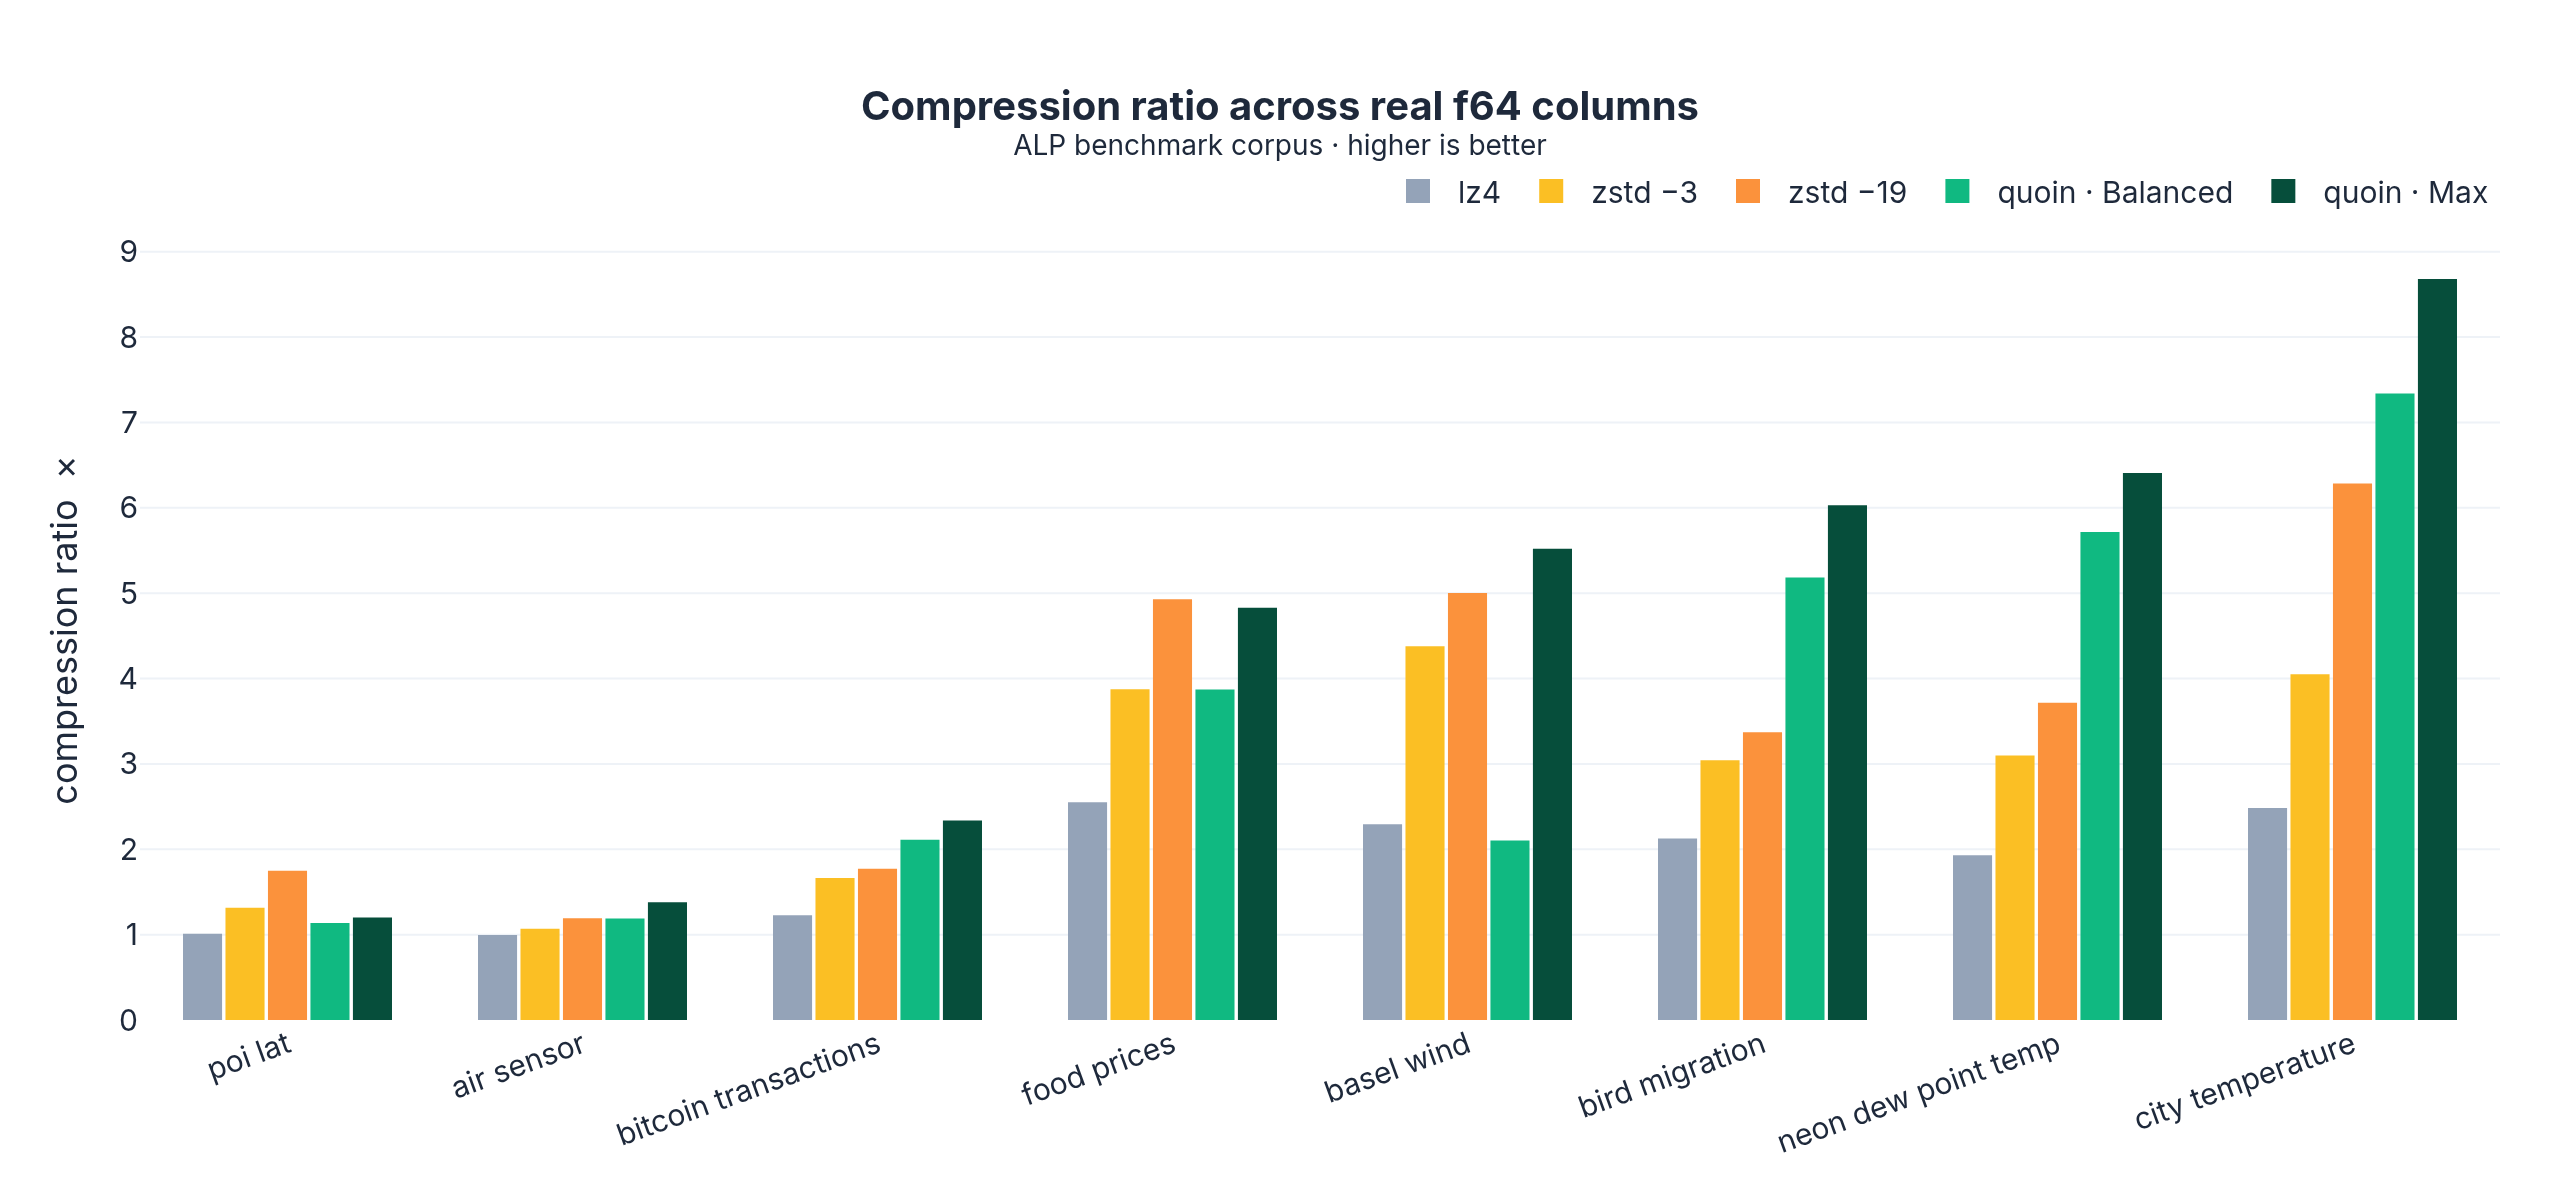
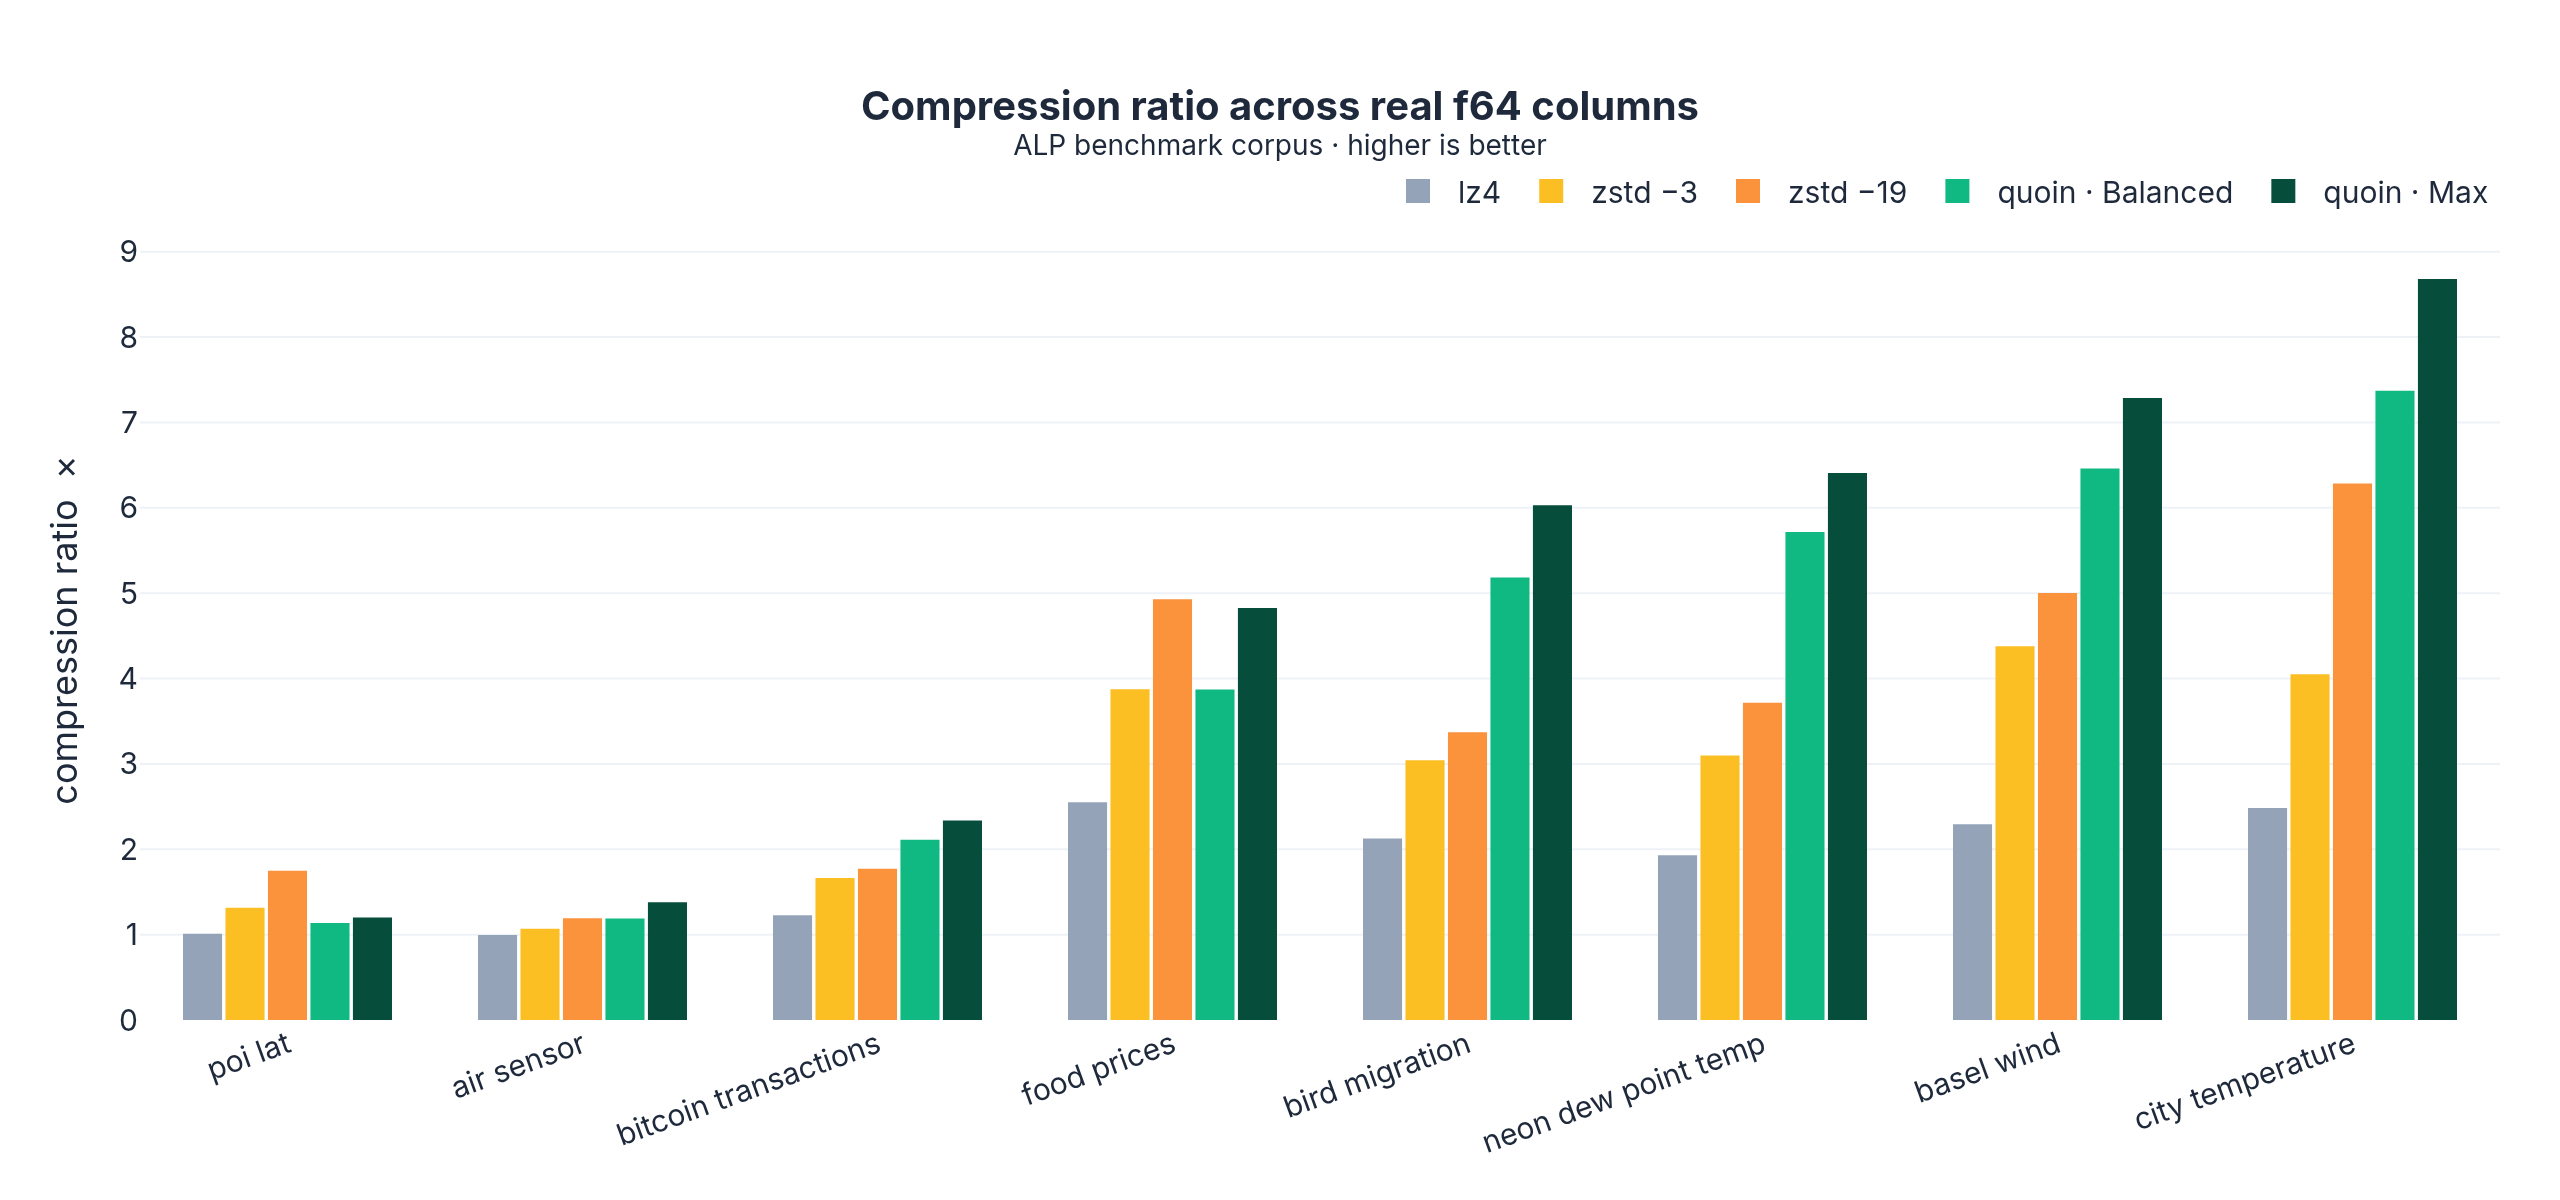
docs: reflect Step B ratio gain on basel_wind (2.10->6.46 bal, 5.52->7.29 max)
The block_compressible-ordering fix in Step B (strong modes before predictors)
lifted basel_wind, a decimal-origin float that previously had LZ/transpose/dict
wrongly skipped at the fast levels. Update the breadth ratio tables (README, ru,
BENCHMARKS) and regenerate ratio_breadth.png. The legacy 'remaining gaps' entry for
basel_wind is marked resolved. Only basel_wind changed (deterministic); pareto
charts/speed numbers left as their committed snapshot to avoid run-to-run variance
churn.

diff --git a/docs/BENCHMARKS.md b/docs/BENCHMARKS.md
@@ -46,7 +46,7 @@ spans 496→9 MB/s encode.
 | --- | ---: | ---: | ---: | ---: | ---: | ---: |
 | air_sensor | 1.00 | 1.13 | 1.07 | 1.19 | 1.19 | **1.38** |
 | bird_migration | 2.13 | 3.13 | 3.04 | 3.37 | 5.18 | **6.03** |
-| basel_wind | 2.29 | 3.74 | 4.38 | 5.00 | 2.10 | **5.52** |
+| basel_wind | 2.29 | 3.74 | 4.38 | 5.00 | 6.46 | **7.29** |
 | poi_lat | 1.01 | 1.14 | 1.31 | **1.75** | 1.14 | 1.20 |
 | city_temperature | 2.48 | 4.43 | 4.05 | 6.29 | 7.34 | **8.68** |
 | food_prices | 2.55 | 4.08 | 3.87 | **4.93** | 3.87 | 4.83 |
@@ -139,7 +139,7 @@ After adding **ALP-RD** and **dictionary/RLE**:
 | poi_lat | 1.00→**1.14×** | 1.75× | ALP-RD now used (was RAW). Decodes ~5× faster than zstd. |
 | poi_lon | 1.00→**1.12×** | 1.49× | ALP-RD. |
 | medicare1 | **2.01×** | 2.83× | DICT value compression + code entropy help, but high-cardinality billing sequences still trail zstd. |
-| basel_wind | 2.10× | 5.00× | ALP wins competition but underperforms — needs a second stage on the digits. |
+| basel_wind | 2.10→**7.29×** | 5.00× | **Resolved:** running the strong modes (ALP) before the predictors fixed a `block_compressible` ordering bug that wrongly skipped LZ/transpose/dict here — now beats zstd-19 (see the top "README benchmark" section). |
 | basel_temp | **4.58×** | 3.95× | DICT code entropy now beats zstd on this column. |
 
 ALP-RD is the principled real-double codec: it trades a little ratio for big

diff --git a/README.md b/README.md
@@ -317,7 +317,7 @@ left→right by quoin's ratio below):
 | --- | ---: | ---: | ---: | ---: | ---: | ---: | ---: |
 | air_sensor | 8 664 | 1.00 | 1.13 | 1.07 | 1.19 | 1.19 | **1.38** |
 | bird_migration | 17 964 | 2.13 | 3.13 | 3.04 | 3.37 | 5.18 | **6.03** |
-| basel_wind | 123 480 | 2.29 | 3.74 | 4.38 | 5.00 | 2.10 | **5.52** |
+| basel_wind | 123 480 | 2.29 | 3.74 | 4.38 | 5.00 | 6.46 | **7.29** |
 | poi_lat | 424 205 | 1.01 | 1.14 | 1.31 | **1.75** | 1.14 | 1.20 |
 | city_temperature | 2 000 000 | 2.48 | 4.43 | 4.05 | 6.29 | 7.34 | **8.68** |
 | food_prices | 2 000 000 | 2.55 | 4.08 | 3.87 | **4.93** | 3.87 | 4.83 |

diff --git a/README.ru.md b/README.ru.md
@@ -329,7 +329,7 @@ quoin-Max доводит ratio до 2.72.
 | --- | ---: | ---: | ---: | ---: | ---: | ---: | ---: |
 | air_sensor | 8 664 | 1.00 | 1.13 | 1.07 | 1.19 | 1.19 | **1.38** |
 | bird_migration | 17 964 | 2.13 | 3.13 | 3.04 | 3.37 | 5.18 | **6.03** |
-| basel_wind | 123 480 | 2.29 | 3.74 | 4.38 | 5.00 | 2.10 | **5.52** |
+| basel_wind | 123 480 | 2.29 | 3.74 | 4.38 | 5.00 | 6.46 | **7.29** |
 | poi_lat | 424 205 | 1.01 | 1.14 | 1.31 | **1.75** | 1.14 | 1.20 |
 | city_temperature | 2 000 000 | 2.48 | 4.43 | 4.05 | 6.29 | 7.34 | **8.68** |
 | food_prices | 2 000 000 | 2.55 | 4.08 | 3.87 | **4.93** | 3.87 | 4.83 |